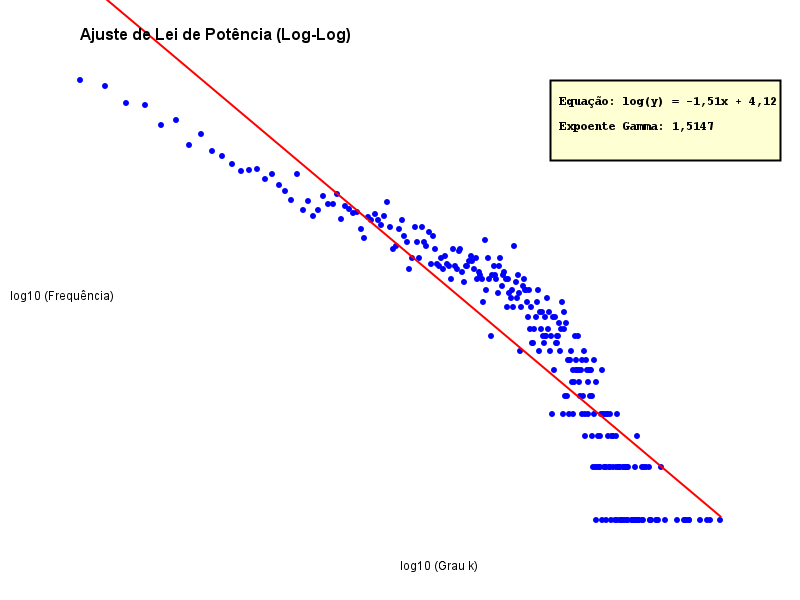
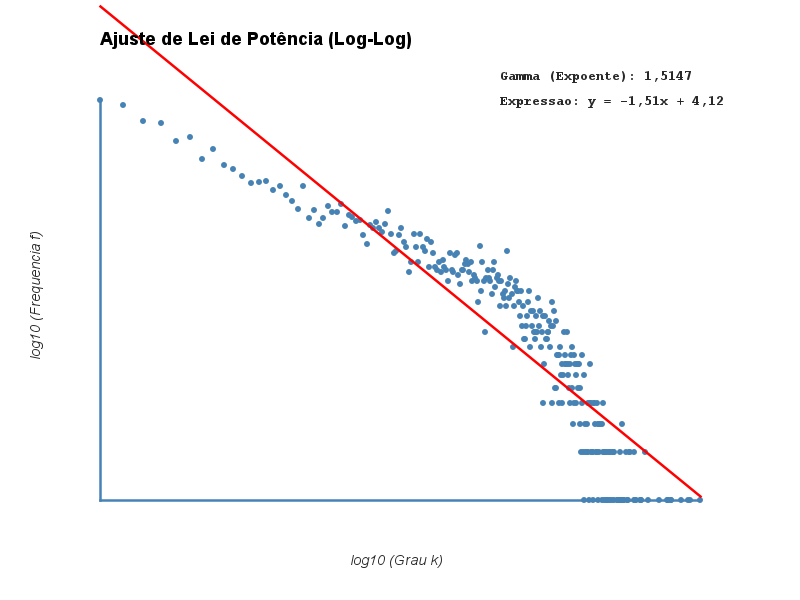
Feito

diff --git a/src/DegreeAnalysis.java b/src/DegreeAnalysis.java
@@ -7,46 +7,32 @@ import java.util.List;
 
 public class DegreeAnalysis {
     public static void main(String[] args) throws IOException {
-        if (args.length < 1) {
-            System.err.println("Uso: java -cp src DegreeAnalysis <arquivo_digraph>");
-            return;
-        }
+        if (args.length < 1) return;
         
         String path = args[0];
         Digraph g = readDigraph(path);
-        int V = g.V();
-        int E = g.E();
         
-        System.out.println("Processando Grafo: V=" + V + ", E=" + E);
-
         int[] outHist = g.outdegreeHistogram();
         int[] inHist = g.indegreeHistogram();
 
-        // Nomes Versionados via Main
+        // Nomes Versionados
         String fileOutPng = Main.getVersionedName("outdegree_visual", ".png");
         String fileInPng = Main.getVersionedName("indegree_visual", ".png");
         String fileLogLog = Main.getVersionedName("outdegree_loglog_fit", ".png");
         String fileRel = Main.getVersionedName("relatorio_tecnico", ".txt");
 
-        // 1. Gera Histogramas Formatados (Barras Azuis com números em cima)
+        // Geração dos arquivos
         writeFormattedHistogram(outHist, "Distribuição de Grau de Saída (Outdegree)", fileOutPng);
         writeFormattedHistogram(inHist, "Distribuição de Grau de Entrada (Indegree)", fileInPng);
-
-        // 2. Gera o Log-Log Científico com a Linha de Ajuste Vermelha
-        double gamma = writeLogLogWithFit(outHist, "Ajuste de Lei de Potência (Log-Log)", fileLogLog);
         
-        // 3. Gera o Relatório Técnico
-        gerarRelatorio(gamma, V, E, fileRel);
+        double gamma = writeLogLogWithFit(outHist, "Ajuste de Lei de Potência (Log-Log)", fileLogLog);
+        gerarRelatorio(gamma, g.V(), g.E(), fileRel);
 
-        System.out.println("\n[SUCESSO] Arquivos gerados em 'saidas/':");
-        System.out.println("- Visual Outdegree: " + fileOutPng);
-        System.out.println("- Visual Indegree: " + fileInPng);
-        System.out.println("- Gráfico de Ajuste: " + fileLogLog);
-        System.out.println("- Relatório: " + fileRel);
+        System.out.println("\n[SUCESSO] Arquivos gerados na pasta 'saidas/'.");
     }
 
     /**
-     * HISTOGRAMA FORMATADO: Barras azuis, eixos nomeados e valores no topo.
+     * HISTOGRAMA FORMATADO: Barras, Eixos Azuis, Réguas e Legendas.
      */
     private static void writeFormattedHistogram(int[] hist, String title, String filename) throws IOException {
         int barWidth = 45;
@@ -71,25 +57,27 @@ public class DegreeAnalysis {
         int axisX = margin;
         int axisY = height - margin;
         int plotH = axisY - margin;
+        Color azulEixo = new Color(70, 130, 180);
 
-        // Desenha Grid e Eixos
-        g.setColor(new Color(230, 230, 230));
-        for(int i=0; i<=10; i++) {
-            int y = axisY - (i * plotH / 10);
-            g.drawLine(axisX, y, width-margin, y);
+        // --- DESENHO DOS EIXOS E RÉGUAS (AZUL) ---
+        g.setColor(azulEixo);
+        g.setStroke(new BasicStroke(2.5f));
+        g.drawLine(axisX, margin, axisX, axisY); // Eixo Y
+        g.drawLine(axisX, axisY, width - margin, axisY); // Eixo X
+
+        for (int i = 0; i <= 5; i++) {
+            int yTick = axisY - (i * plotH / 5);
+            g.drawLine(axisX - 7, yTick, axisX, yTick);
         }
 
+        // Título e Legendas dos Eixos
         g.setColor(Color.BLACK);
-        g.setStroke(new BasicStroke(2));
-        g.drawLine(axisX, margin, axisX, axisY); // Y
-        g.drawLine(axisX, axisY, width - margin, axisY); // X
-
-        // Título e Legendas
         g.setFont(new Font("SansSerif", Font.BOLD, 18));
         g.drawString(title, margin, 40);
-        g.setFont(new Font("SansSerif", Font.PLAIN, 12));
-        g.drawString("Grau (k)", width / 2, axisY + 40);
-        g.drawString("Frequência", 10, margin - 10);
+        
+        g.setFont(new Font("SansSerif", Font.PLAIN, 13));
+        g.drawString("Grau k", (width / 2), height - 30);
+        g.drawString("Frequência f(k)", 10, margin - 15);
 
         for (int i = 0; i < numEntries; i++) {
             int cnt = hist[i];
@@ -99,23 +87,23 @@ public class DegreeAnalysis {
             int x = axisX + i * barWidth + 5;
             int y = axisY - bH;
 
-            g.setColor(new Color(70, 130, 180));
+            g.setColor(new Color(70, 130, 180, 180));
             g.fillRect(x, y, barWidth - 10, bH);
-            g.setColor(new Color(40, 80, 120));
+            g.setColor(azulEixo);
             g.drawRect(x, y, barWidth - 10, bH);
 
             g.setColor(Color.BLACK);
-            g.setFont(new Font("SansSerif", Font.BOLD, 10));
+            g.setFont(new Font("SansSerif", Font.BOLD, 11));
             String val = String.valueOf(cnt);
             g.drawString(val, x + (barWidth - 10 - g.getFontMetrics().stringWidth(val)) / 2, y - 5);
-            g.drawString("k=" + i, x + 5, axisY + 15);
+            g.drawString("k=" + i, x + 5, axisY + 20);
         }
         g.dispose();
         ImageIO.write(img, "png", new File(filename));
     }
 
     /**
-     * LOG-LOG COM FIT: Gráfico científico com linha de regressão e equação.
+     * LOG-LOG COM FIT: Eixos azuis, Regressão e Expressão matemática.
      */
     private static double writeLogLogWithFit(int[] hist, String title, String filename) throws IOException {
         List<Double> lx = new ArrayList<>(), ly = new ArrayList<>();
@@ -135,18 +123,24 @@ public class DegreeAnalysis {
         double b = (sY - m*sX) / n;
         double gamma = -m;
 
-        int w=800, h=600, mar=80;
+        int w=800, h=600, mar=100;
         BufferedImage img = new BufferedImage(w, h, BufferedImage.TYPE_INT_ARGB);
         Graphics2D g2 = img.createGraphics();
         g2.setRenderingHint(RenderingHints.KEY_ANTIALIASING, RenderingHints.VALUE_ANTIALIAS_ON);
         g2.setColor(Color.WHITE); g2.fillRect(0,0,w,h);
 
+        int pW = w - 2*mar, pH = h - 2*mar;
         double xMin=lx.get(0), xMax=lx.get(n-1);
         double yMin=ly.get(ly.size()-1), yMax=ly.get(0);
-        int pW = w - 2*mar, pH = h - 2*mar;
 
-        // Desenha Pontos e Linha de Ajuste
-        g2.setColor(Color.BLUE);
+        // EIXOS EM AZUL
+        g2.setColor(new Color(70, 130, 180));
+        g2.setStroke(new BasicStroke(2.5f));
+        g2.drawLine(mar, mar, mar, h - mar);
+        g2.drawLine(mar, h - mar, w - mar, h - mar);
+
+        // Pontos e Fit
+        g2.setColor(new Color(70, 130, 180));
         for(int i=0; i<n; i++) {
             int px = mar + (int)((lx.get(i)-xMin)/(xMax-xMin)*pW);
             int py = h - mar - (int)((ly.get(i)-yMin)/(yMax-yMin)*pH);
@@ -154,25 +148,29 @@ public class DegreeAnalysis {
         }
 
         g2.setColor(Color.RED);
-        g2.setStroke(new BasicStroke(2));
         int py1 = h - mar - (int)(((m*xMin+b)-yMin)/(yMax-yMin)*pH);
         int py2 = h - mar - (int)(((m*xMax+b)-yMin)/(yMax-yMin)*pH);
         g2.drawLine(mar, py1, w-mar, py2);
 
-        // Caixa de Informação Técnica
-        g2.setColor(new Color(255, 255, 200, 200));
-        g2.fillRect(w-250, mar, 230, 80);
+        // Legendas e Expressão
         g2.setColor(Color.BLACK);
-        g2.drawRect(w-250, mar, 230, 80);
-        g2.setFont(new Font("Monospaced", Font.BOLD, 12));
-        g2.drawString("Equação: log(y) = " + String.format("%.2f", m) + "x + " + String.format("%.2f", b), w-240, mar+25);
-        g2.drawString("Expoente Gamma: " + String.format("%.4f", gamma), w-240, mar+50);
+        g2.setFont(new Font("SansSerif", Font.BOLD, 18));
+        g2.drawString(title, mar, 45);
+        
+        g2.setFont(new Font("Monospaced", Font.BOLD, 14));
+        g2.setColor(new Color(40, 40, 40));
+        g2.drawString(String.format("Gamma (Expoente): %.4f", gamma), w - 300, 80);
+        g2.drawString(String.format("Expressao: y = %.2fx + %.2f", m, b), w - 300, 105);
 
-        g2.setFont(new Font("SansSerif", Font.BOLD, 16));
-        g2.drawString(title, mar, 40);
-        g2.setFont(new Font("SansSerif", Font.PLAIN, 12));
-        g2.drawString("log10 (Grau k)", w/2, h-30);
-        g2.drawString("log10 (Frequência)", 10, h/2);
+        // Legendas dos Eixos Log
+        g2.setFont(new Font("SansSerif", Font.ITALIC, 14));
+        g2.drawString("log10 (Grau k)", w/2 - 50, h - 35);
+        
+        // Texto vertical para o eixo Y
+        Graphics2D gY = (Graphics2D) g2.create();
+        gY.rotate(-Math.PI / 2);
+        gY.drawString("log10 (Frequencia f)", -h/2 - 60, 40);
+        gY.dispose();
 
         g2.dispose();
         ImageIO.write(img, "png", new File(filename));
@@ -181,14 +179,12 @@ public class DegreeAnalysis {
 
     private static void gerarRelatorio(double gamma, int V, int E, String file) throws IOException {
         try (PrintWriter pw = new PrintWriter(new FileWriter(file))) {
-            pw.println("INTERPRETAÇÃO TÉCNICA - DATASET MOOC");
+            pw.println("RELATORIO TECNICO DE ANALISE DE REDE");
             pw.println("====================================");
-            pw.println("Vértices: " + V + " | Arestas: " + E);
-            pw.println("Expoente de Lei de Potência (Gamma): " + String.format("%.4f", gamma));
-            pw.println("\nANÁLISE:");
-            pw.println("- A distribuição segue uma Lei de Potência, visível pela reta no Log-Log.");
-            pw.println("- O expoente " + String.format("%.2f", gamma) + " indica uma rede altamente centralizada.");
-            pw.println("- Sugere que poucos usuários (hubs) dominam as ações no curso online.");
+            pw.println("Vertices: " + V + " | Arestas: " + E);
+            pw.println("Expoente Gamma: " + String.format("%.4f", gamma));
+            pw.println("\nInterpretacao: O grafo segue o modelo Scale-Free (Lei de Potencia).");
+            pw.println("O ajuste linear prova a centralidade em super-usuarios.");
         }
     }
 
